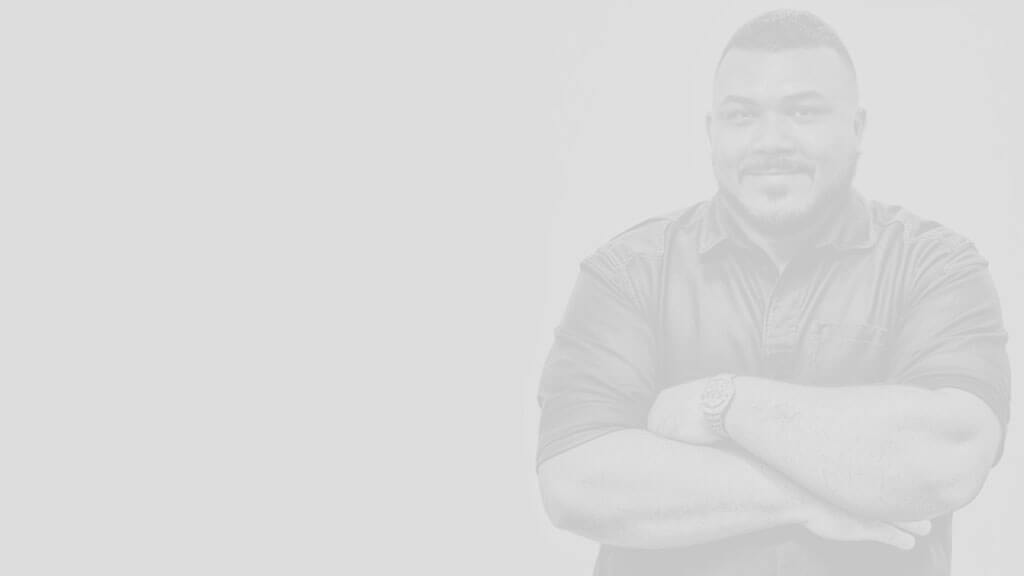
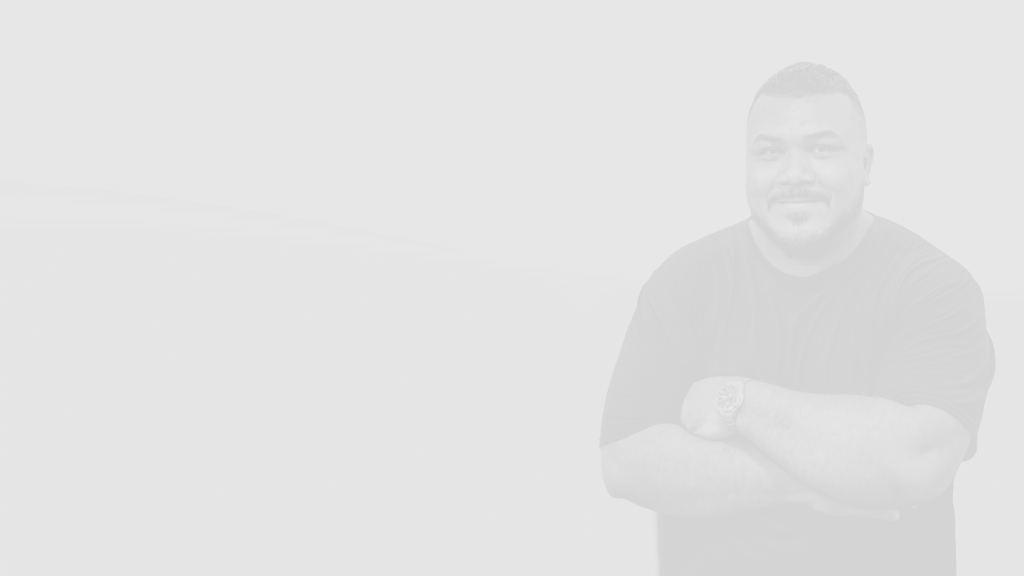
refactor(index, styles, img): Enhanced bk img and styles

diff --git a/index.html b/index.html
@@ -74,6 +74,68 @@
   <link href="https://unpkg.com/aos@2.3.1/dist/aos.css" rel="stylesheet" />
   <link rel="icon" type="image/png" href="android-icon-36x36.png" />
   <link rel="manifest" href="/manifest.json" />
+  <script type="application/ld+json">
+  {
+    "@context": "http://schema.org",
+    "@type": "Person",
+    "name": "Alvison Hunter Arnuero",
+    "alternateName": "Alvison Hunter",
+    "jobTitle": "CodeCrafters Labs Founder & Web Development Specialist",
+    "hasOccupation":{
+      "@type":"Occupation",
+      "name":"Senior Web Developer"
+    },
+    "description": "Alvison Hunter Arnuero specializes in building responsive WordPress & JavaScript web apps using React & Vue. He offers web development services, mentoring, and SEO consulting to help businesses grow.",
+    "url": "https://alvisonhunter.com/",
+    "image": "https://res.cloudinary.com/alvison-hunter/image/upload/v1700337264/al-hunter-website/n04rwptnt6kufnb6xcms.png",
+    "address": {
+      "@type": "PostalAddress",
+      "streetAddress": "Residencial Praderas de Xilotepelt, #G2",
+      "addressLocality": "Jinotepe",
+      "addressRegion": "Carazo",
+      "postalCode": "45000",
+      "addressCountry": "Nicaragua"
+    },
+    "telephone": "+50588638751",
+    "email": "alvison@gmail.com",
+    "gender": "Male",
+    "birthDate": "1976-02-09",
+    "nationality": "Nicaraguan",
+    "sameAs": [
+      "https://www.linkedin.com/in/alvison-hunter-arnuero",
+      "https://x.com/alvisonhunter",
+      "https://github.com/AlvisonHunterArnuero",
+      "https://www.facebook.com/alvisonhunter/"
+    ],
+    "worksFor": {
+      "@type": "Organization",
+      "name": "CodeCrafters Labs",
+      "url": "https://codecrafterslabs.com/"
+    },
+    "knowsAbout":"web development, python, javascript, flask, react, vue, node, express, mongodb, netlify, contentful, jira, trello, notion, clickup, asana, shortcut, agile, scrum, quality assurance, technical writing, technical support, quantitative reports",
+    "keywords": [
+      "web development services",
+      "web development courses",
+      "seo consulting & services",
+      "web development mentoring",
+      "business growth solutions",
+      "full-stack web development",
+      "web developer for small businesses"
+    ],
+    "knowsLanguage":["English","Spanish","French","Italian","German","Portuguese","Dutch","Mandarin"],
+    "alumniOf": {
+      "@type": "EducationalOrganization",
+      "name": "National University of Nicaragua"
+    },
+    "funder":"CodeCrafters Labs",
+    "affiliation":"CodeCrafters Labs",
+     "potentialAction": {
+          "@type": "SearchAction",
+          "target": "https://alvisonhunter.com/search?q={search_term_string}",
+          "query-input": "required name=search_term_string"
+        }
+  }
+      </script>
 </head>
 
 <body>

diff --git a/styles.css b/styles.css
@@ -35,7 +35,7 @@ html {
 }
 
 .bgimg-0 {
-  background-image: url('https://res.cloudinary.com/alvison-hunter/image/upload/q_59/v1720541541/al-hunter-website/bg00.webp');
+  background-image: url('https: //res.cloudinary.com/alvison-hunter/image/upload/v1731653013/al-hunter-website/bg00_nr0ts6.jpg');
   min-height: 100%;
 }
 

diff --git a/docs/styles.css b/docs/styles.css
@@ -34,7 +34,7 @@ html {
   background-size: cover;
 }
 .bgimg-0 {
-  background-image: url('./imgs/bg00.jpg');
+  background-image: url('https: //res.cloudinary.com/alvison-hunter/image/upload/v1731653013/al-hunter-website/bg00_nr0ts6.jpg');
   min-height: 100%;
 }
 
